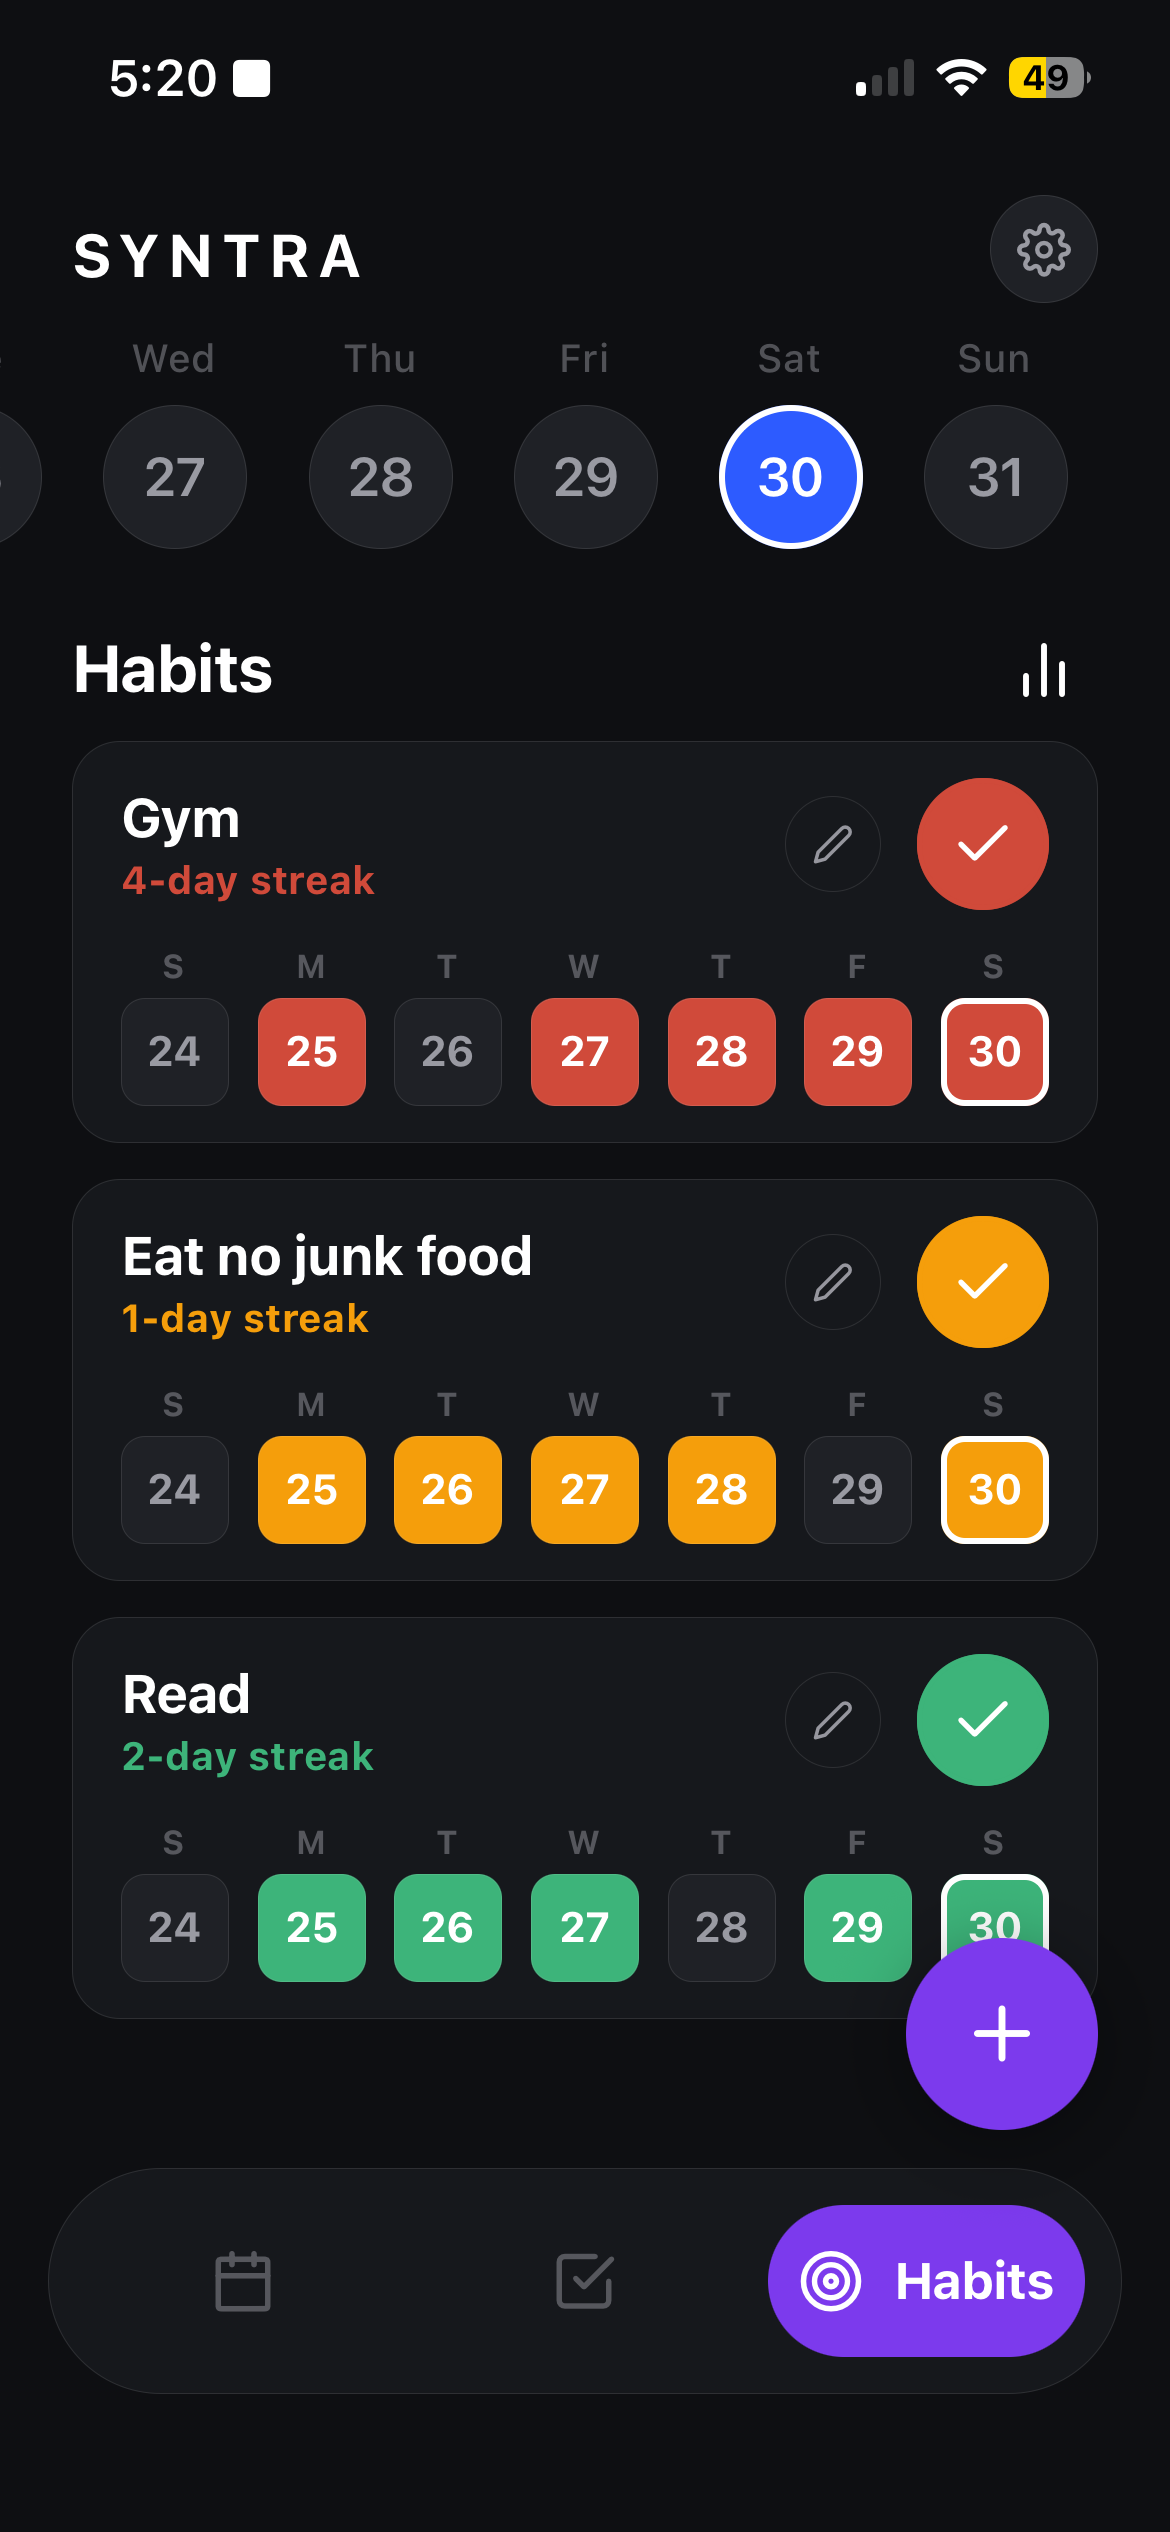
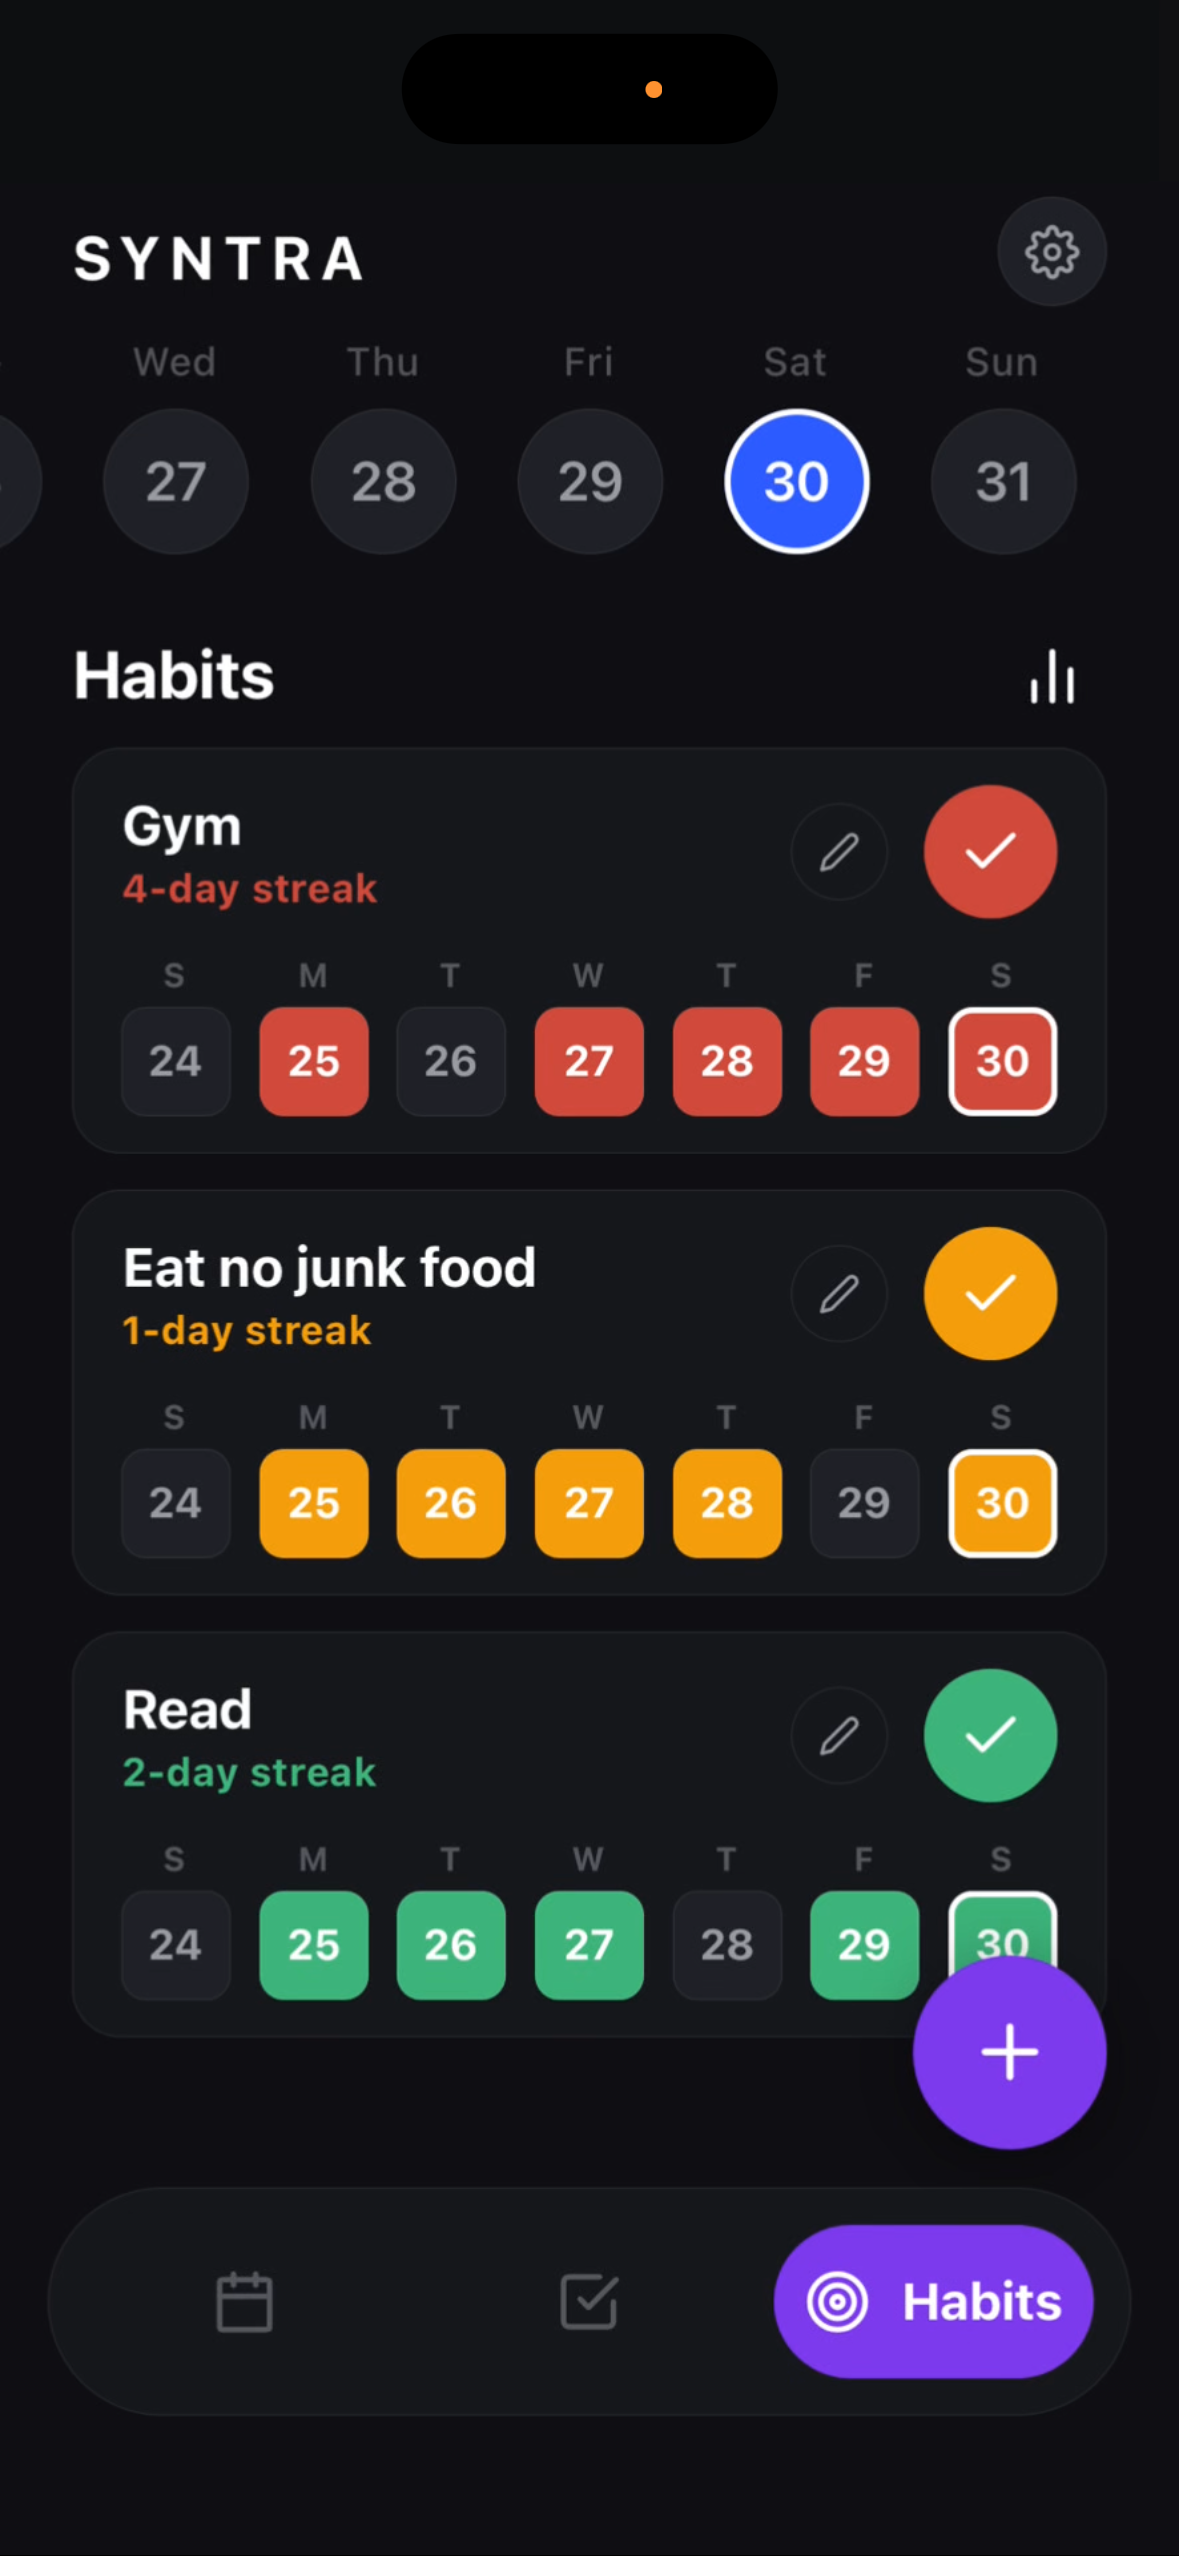
Refresh screenshots and add Home screen widgets card
- Update mic, day, habits, analytics screenshots to new captures
- Keep to-do screenshot unchanged
- Add new "Home screen widgets" carousel card
- Bump image cache-busters to v=4

diff --git a/index.html b/index.html
@@ -72,38 +72,45 @@
       <div class="screenshots" id="screenshots-track">
         <figure class="phone-card">
           <div class="phone phone-shot">
-            <img src="screenshots/mic.png?v=2" alt="Voice capture screen" />
+            <img src="screenshots/mic.png?v=4" alt="Voice capture screen" />
           </div>
           <h3>Voice capture</h3>
           <p>Just talk. Syntra hears "remind me to call mom at 5:30" and turns it into a real reminder — no typing needed.</p>
         </figure>
         <figure class="phone-card">
           <div class="phone phone-shot">
-            <img src="screenshots/day.png?v=3" alt="Day view with tasks" />
+            <img src="screenshots/day.png?v=4" alt="Day view with tasks" />
           </div>
           <h3>Your day</h3>
           <p>Every dated task and event for the day, sorted by time. Tap the circle to check it off; completed items strike through and sink to the bottom.</p>
         </figure>
         <figure class="phone-card">
           <div class="phone phone-shot">
-            <img src="screenshots/todos.png?v=3" alt="To-do list" />
+            <img src="screenshots/todos.png?v=4" alt="To-do list" />
           </div>
           <h3>To-do list</h3>
           <p>The undated stuff lives here. Add by voice or by hand, edit with a tap, and pull anything you've checked off back from the archive.</p>
         </figure>
         <figure class="phone-card">
           <div class="phone phone-shot">
-            <img src="screenshots/habits.png?v=3" alt="Habit tracker with streaks" />
+            <img src="screenshots/habits.png?v=4" alt="Habit tracker with streaks" />
           </div>
           <h3>Habits &amp; streaks</h3>
           <p>Track up to a dozen habits with daily check-ins. The 7-day strip on each card shows your last week at a glance — color-coded so they don't blur together.</p>
         </figure>
         <figure class="phone-card">
           <div class="phone phone-shot">
-            <img src="screenshots/analytics.png?v=3" alt="Habit analytics" />
+            <img src="screenshots/analytics.png?v=4" alt="Habit analytics" />
           </div>
           <h3>Habit analytics</h3>
           <p>Today, yesterday, last 7 days, last 30 days — see exactly how often each habit fires. The 30-day grid surfaces patterns and slip-ups you'd otherwise miss.</p>
+        </figure>
+        <figure class="phone-card">
+          <div class="phone phone-shot">
+            <img src="screenshots/widgets.png?v=4" alt="Home screen widgets" />
+          </div>
+          <h3>Home screen widgets</h3>
+          <p>Keep Syntra one glance away. Drop your to-dos, today's habit progress, and a tap-to-capture mic right on your home screen — no need to open the app.</p>
         </figure>
       </div>
     </div>
@@ -112,8 +119,8 @@
   <script>
     // Center-focused, infinite-scroll carousel.
     //
-    //   1. Clone the 5 cards twice so the track has 3 identical
-    //      batches in the DOM (15 cards total).
+    //   1. Clone the cards twice so the track has 3 identical
+    //      batches in the DOM.
     //   2. Initialise scrollLeft to the middle batch — the first
     //      thing the user sees is centered on the same card they'd
     //      see in a non-infinite layout.
